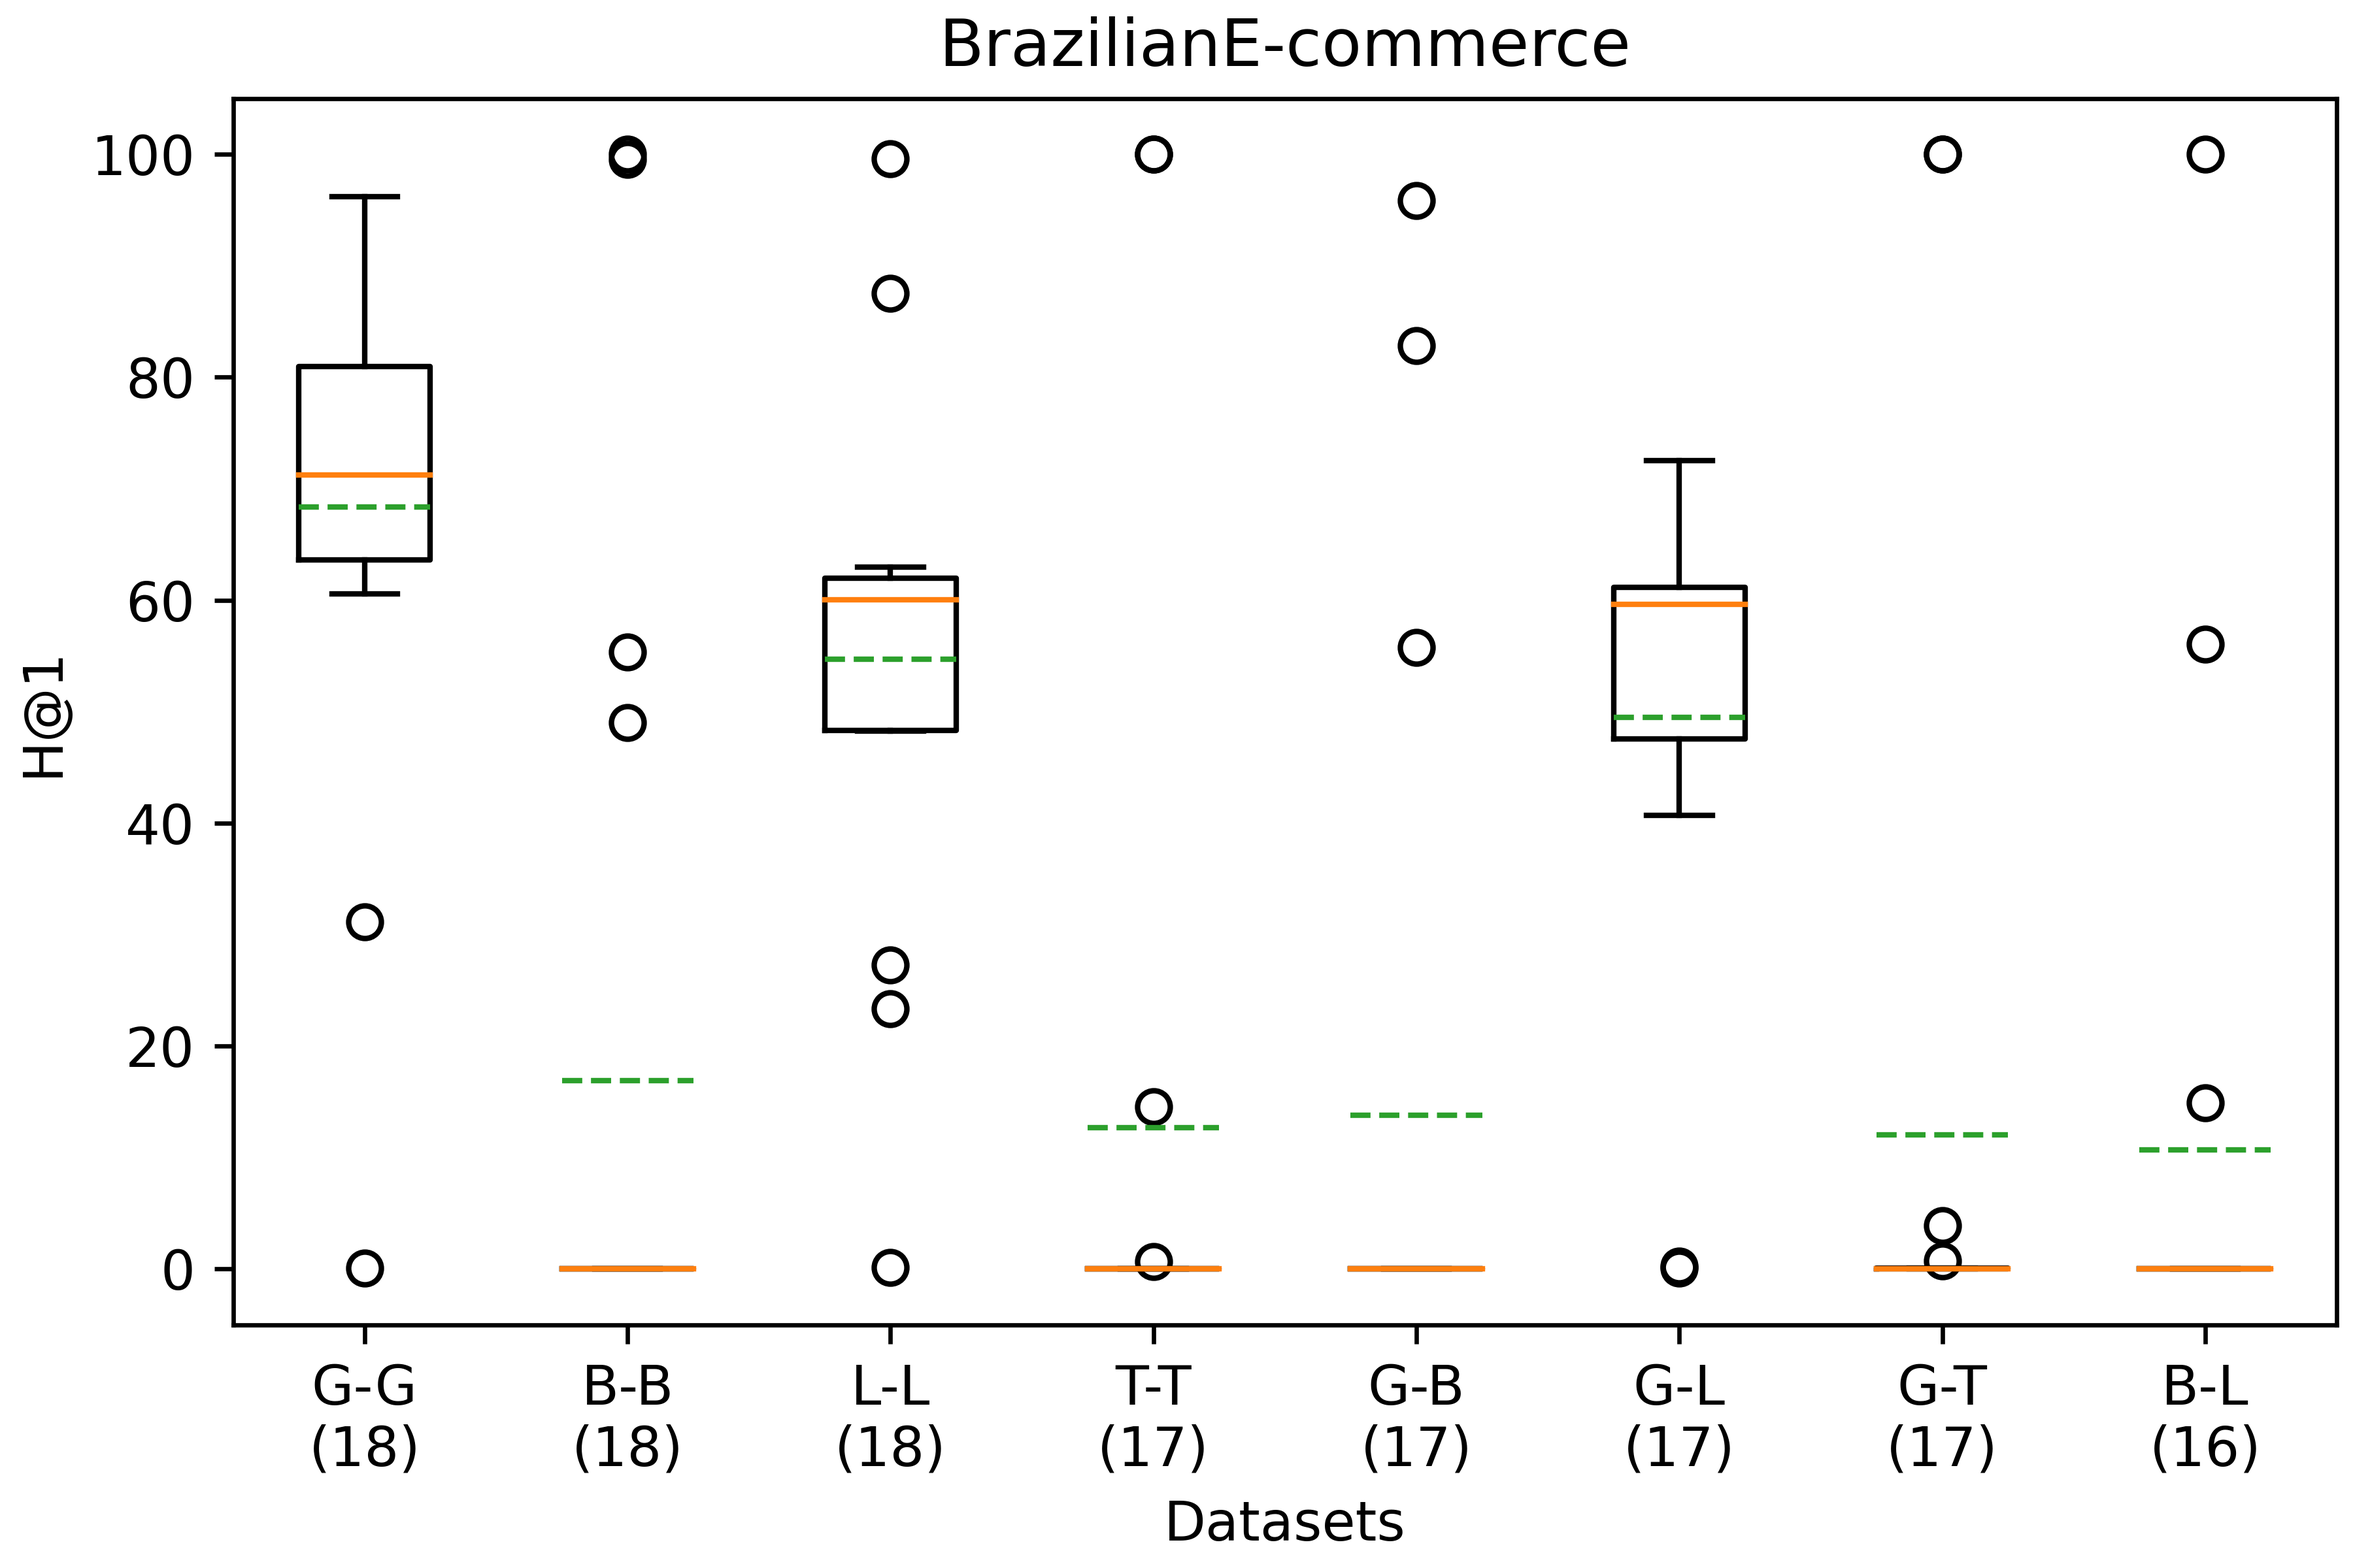
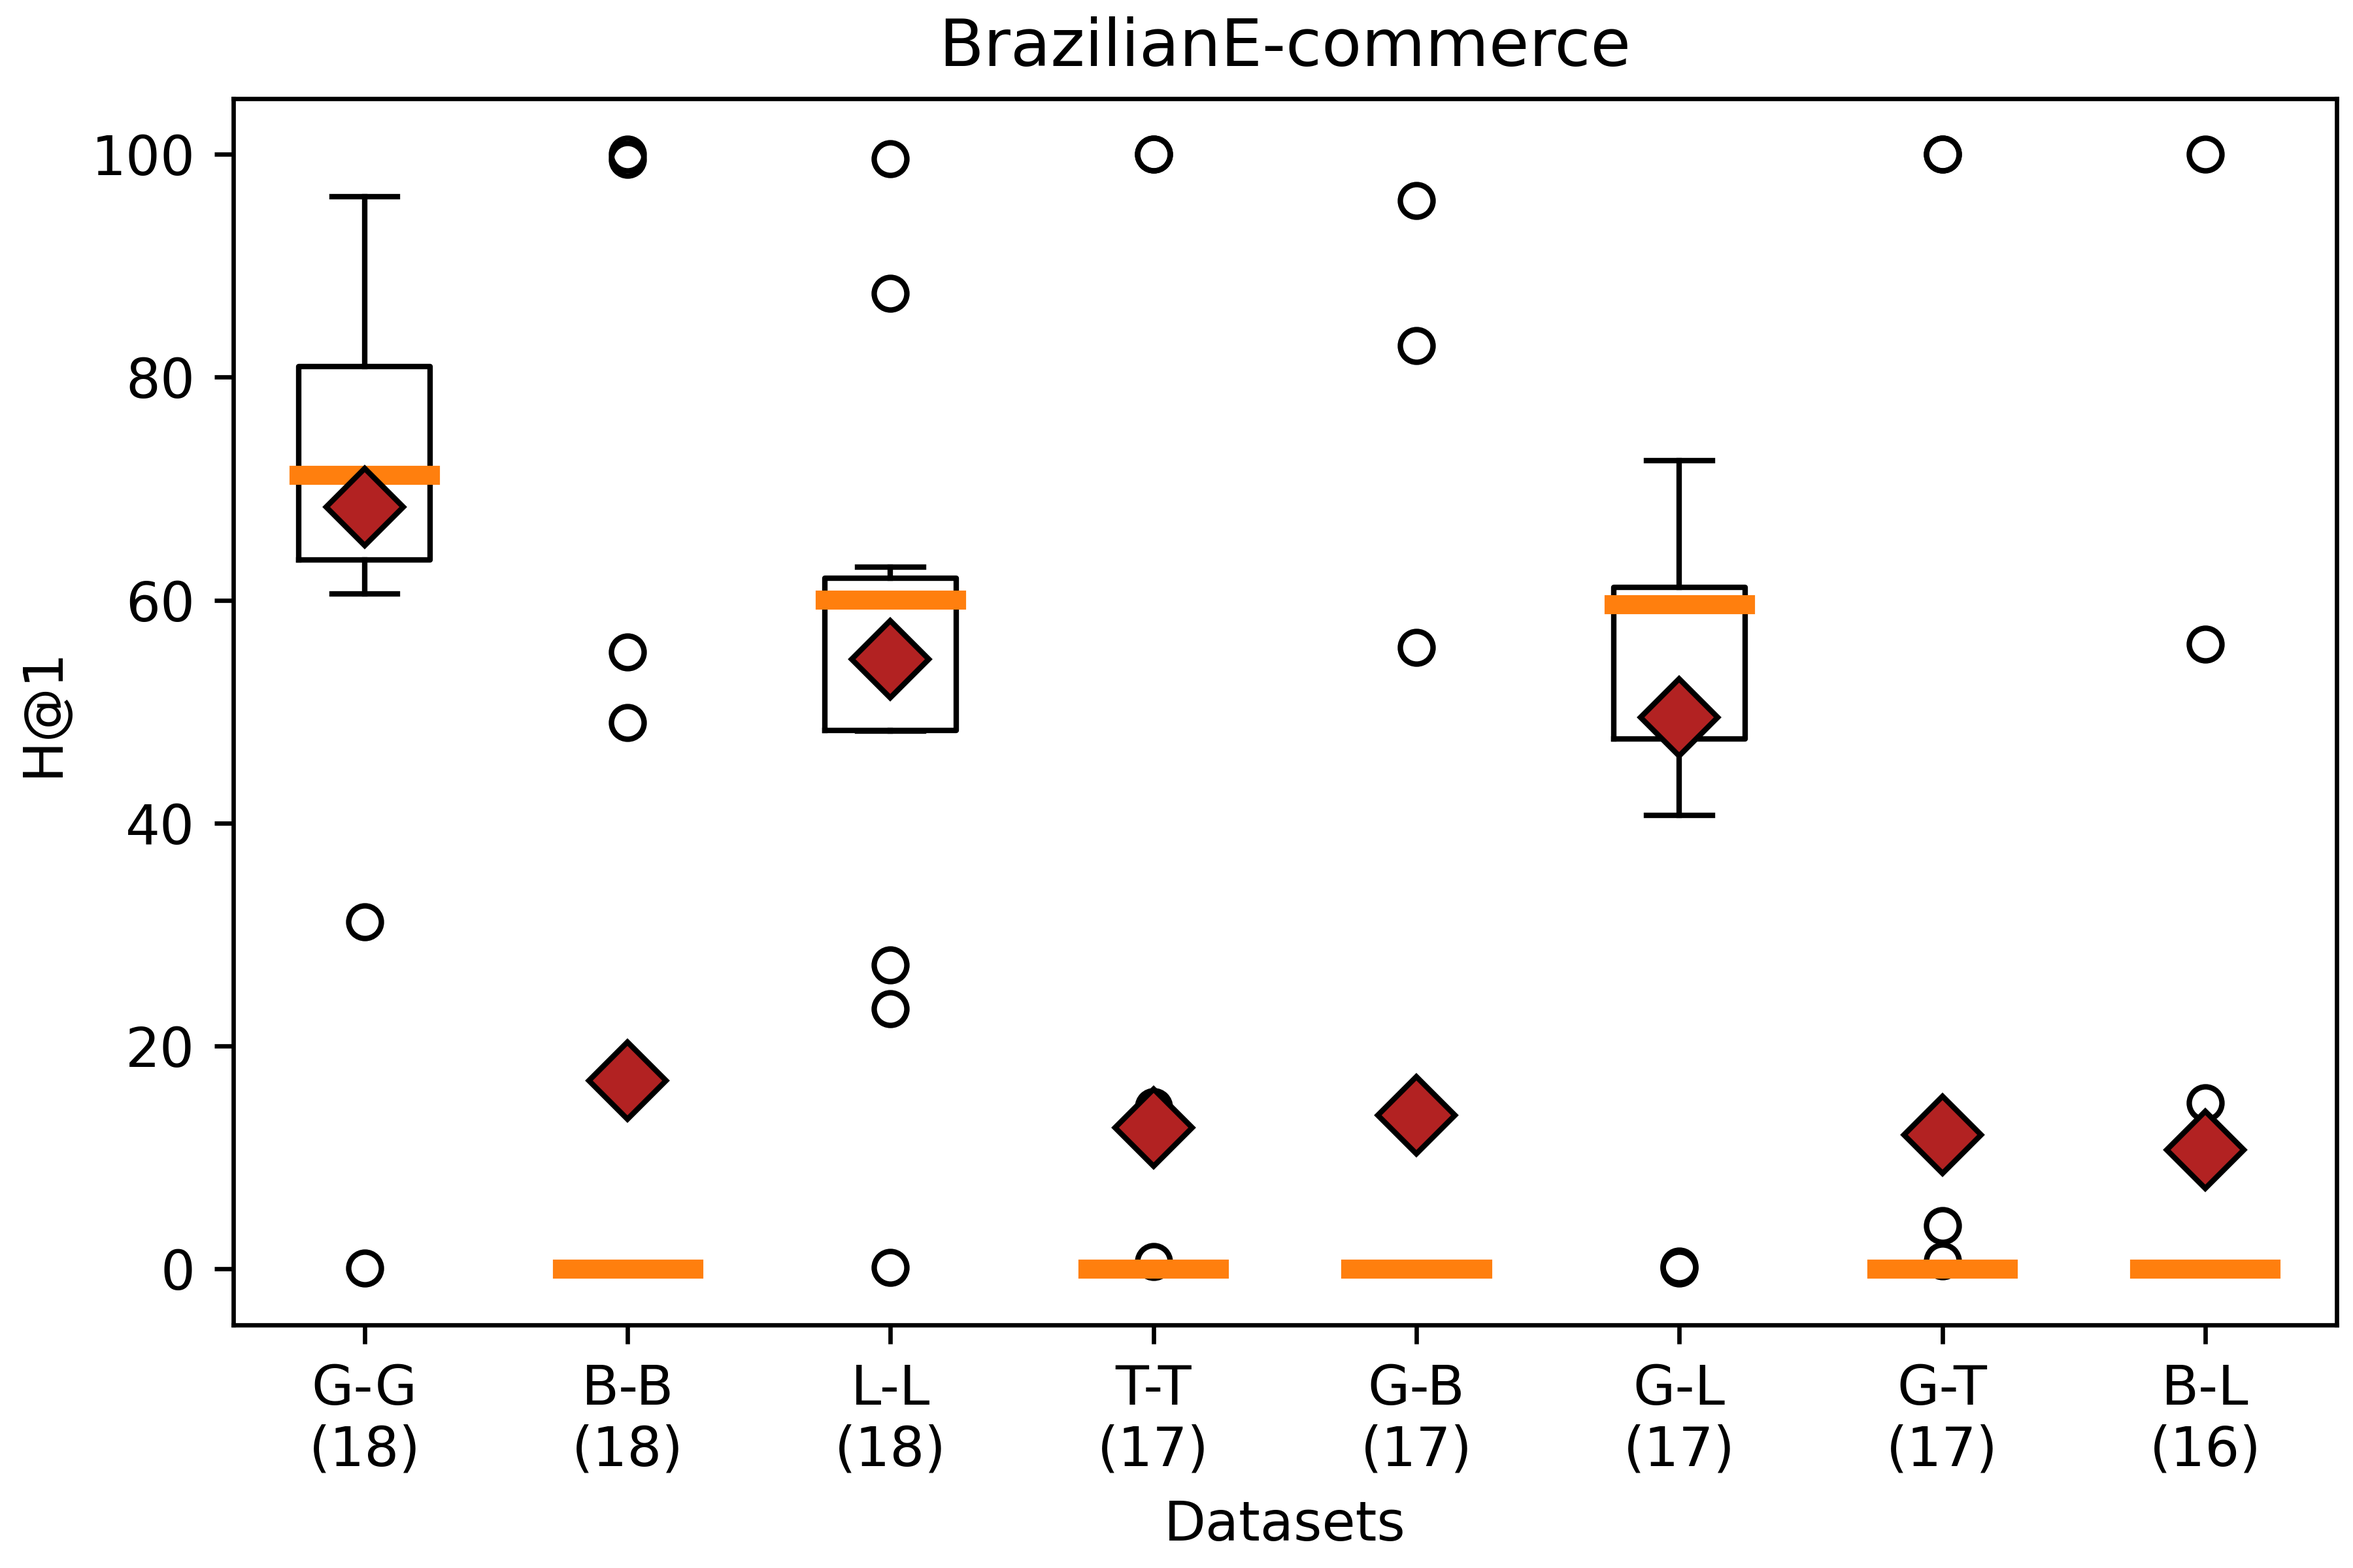
Update Figures Brazilian E-Commerce

diff --git a/BrazilianE-Commerce/brazilianEcommerce.md b/BrazilianE-Commerce/brazilianEcommerce.md
@@ -417,17 +417,21 @@
 
 ## Results
 
+<figcaption><strong>Figure Methods Boxplot.</strong> Boxplot of the OpenEA methods according to the Hits@1 metric of the 8 pairwise comparisons of the KGs generated from the Brazilian E-Commerce dataset. The orange solid line represents the median and the red diamond the mean of the experiments that did not lead to an error. The number of experiments without error is shown in brackets next to the name of the method. BootEA-TransH, ConvE, KDCoE and MultiKE are not shown because their error rate is equal to 1 for all datasets.</figcaption>
+
 ![Modules Boxplot Brazilian E-Commerce](./Figures/boxplotApproaches.png "Modules Boxplot Brazilian E-Commerce")
+
+<figcaption><strong>Figure Methods Clustering.</strong> Hierarchical clustering (Ward algorithm) of 25 OpenEA methods according to the 5 metrics for the 8 pairwise comparisons of the KGs generated from the Brazilian E-Commerce dataset.</figcaption>
 
 ![Modules Clusters Brazilian E-Commerce](./Figures/clusterApproaches.png "Modules Clusters Brazilian E-Commerce")
 
+<figcaption><strong>Figure Experiments Boxplot.</strong> Boxplot of the 8 types of pairwise comparison experiments of KGs based on the Hits@1 score obtained by the 25 methods carried out in the Brazilian E-Commerce dataset. The orange solid line represents the median and the red diamond the mean of the experiments that did not lead to an error. The number of modules that did not generate an error is shown in brackets under the name of the experiment represented.</figcaption>
+
 ![Datasets Boxplot Brazilian E-Commerce](./Figures/boxplotDatasetsPairs.png "Datasets Boxplot Brazilian E-Commerce")
 
+<figcaption><strong>Figure Experiments Clustering.</strong> Hierarchical clustering, with method Ward, of the 8 types of pairwise comparison experiments of KG, according to the 5 metrics, with all the values scaled to the range [0,1], of the 25 (at most) OpenEA modules carried out in the Bigbasket Products dataset.</figcaption>
+
 ![Datasets Clusters Brazilian E-Commerce](./Figures/clusterDataset.png "Datasets Clusters Brazilian E-Commerce")
-
-![Datasets Cluster AttrE-BootEA Brazilian E-Commerce](./Figures/clusterDatasetAttBoot.png "Datasets Cluster AttrE-BootEA Brazilian E-Commerce")
-
-![BarChart Comparisons Modules Brazilian E-Commerce](./Figures/barComparison.png "BarChart Comparisons Modules Brazilian E-Commerce")
 
 ## Merged methods
 

diff --git a/BigBasketProducts/bigBasketProducts.md b/BigBasketProducts/bigBasketProducts.md
@@ -517,8 +517,6 @@
 
 ![Datasets Clusters BigBasket Products](./Figures/clusterDataset.png "Datasets Clusters BigBasket Products")
 
-
-
 ## Merged methods
 
 |Pair|Approach|SalesArticle (#/%) | Product (#/%) | Category (#/%) | SubCategory (#/%) | SalesSpecification (#/%) |
